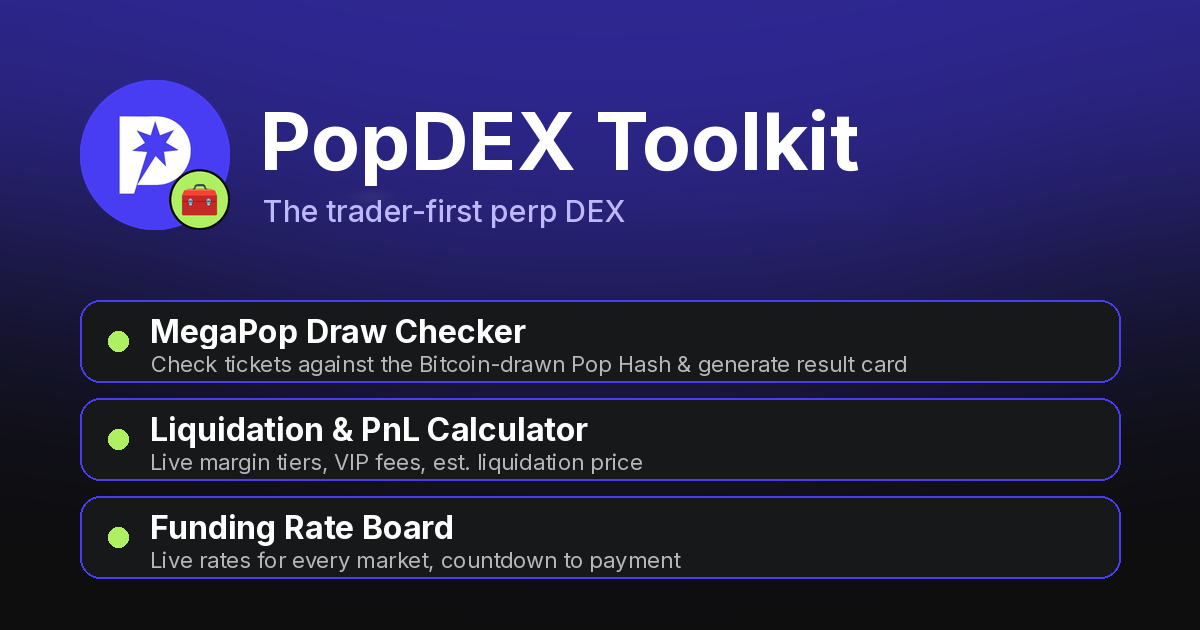
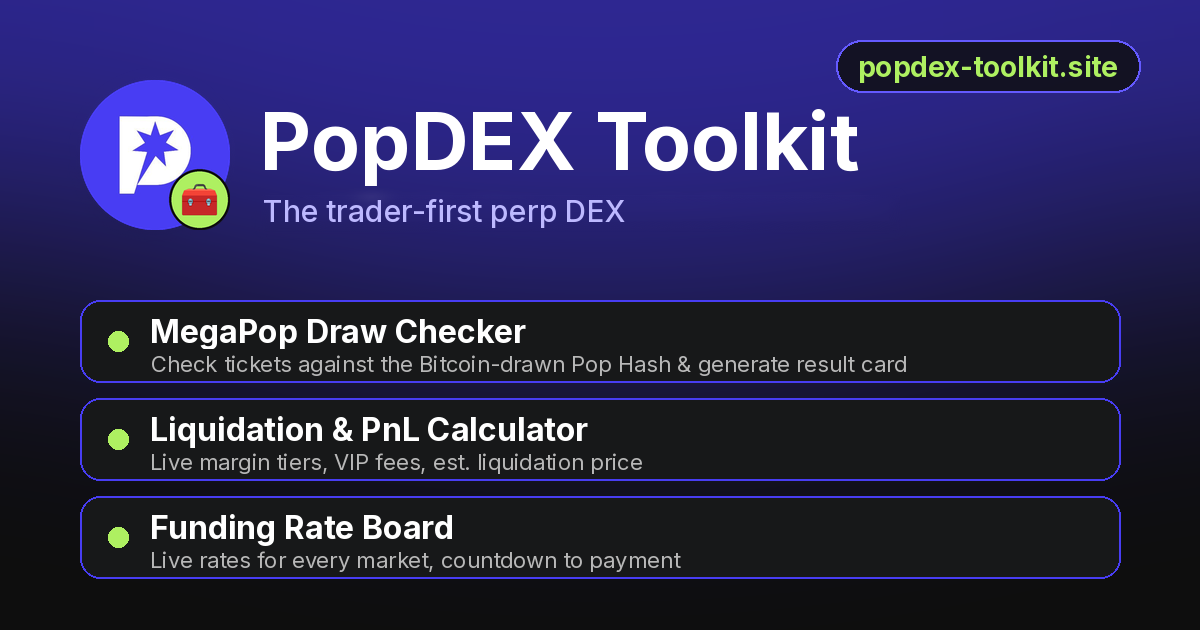
Show popdex-toolkit.site on the link preview image

Changed region(s): [[0.6783, 0.0603, 0.9558, 0.1508]]

diff --git a/index.html b/index.html
@@ -10,14 +10,14 @@
 <meta property="og:site_name" content="PopDEX Toolkit">
 <meta property="og:title" content="PopDEX Toolkit">
 <meta property="og:description" content="MegaPop Draw Checker, Liquidation & PnL Calculator and live Funding Rate Board for PopDEX traders. The trader-first perp DEX.">
-<meta property="og:image" content="https://popdex-toolkit.site/og.png?v=4">
+<meta property="og:image" content="https://popdex-toolkit.site/og.png?v=5">
 <meta property="og:image:width" content="1200">
 <meta property="og:image:height" content="630">
 <meta property="og:url" content="https://popdex-toolkit.site/">
 <meta name="twitter:card" content="summary_large_image">
 <meta name="twitter:title" content="PopDEX Toolkit">
 <meta name="twitter:description" content="MegaPop Draw Checker, Liquidation & PnL Calculator and live Funding Rate Board for PopDEX traders.">
-<meta name="twitter:image" content="https://popdex-toolkit.site/og.png?v=4">
+<meta name="twitter:image" content="https://popdex-toolkit.site/og.png?v=5">
 <link rel="icon" type="image/png" href="favicon.png?v=4">
 <link rel="apple-touch-icon" href="avatar-192.png?v=4">
 <link rel="stylesheet" href="styles.css?v=5">
